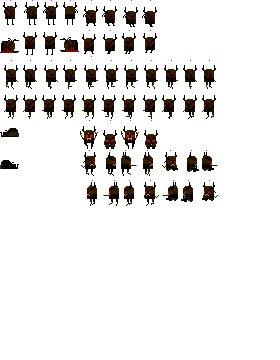
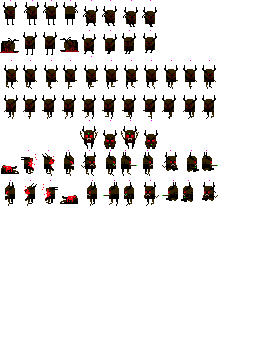
Added 'decapitated' state in case of actor gets damage more than 2x of his remaining health.

diff --git a/entity.py b/entity.py
@@ -38,6 +38,7 @@ class Entity(object):
         self.dead = False
         self.dying = False
         self.disappear_after_death = False
+        self.has_got_a_critical_hit = False
         self.is_destructible: bool = False
         self.current_weapon = dict()
         self.time_passed: int = 0
@@ -695,12 +696,12 @@ class Entity(object):
                         forces_balance = ((dem.parent_strength + dem.parent_weight) / dem.parent_penalty) / (self.strength + self.body_weight)
                         # forces_balance = ((dem.parent_strength / self.strength) + (dem.parent_weight / self.body_weight)) / dem.parent_penalty
                         self.speed = 5 + forces_balance
-                        print(f'{dem.total_damage_amount=} {forces_balance=} {dem.parent_penalty=}')
+                        print(f'[demolishers collision] {dem.total_damage_amount=} {forces_balance=} {dem.parent_penalty=}')
                     else:
                         self.movement_direction_inverter = -1 if dem.look != self.look else 1
                         forces_balance = 0.1
                         self.speed = 3
-                        print(f'{dem.total_damage_amount=} {forces_balance=} {dem.parent_penalty=}')
+                        print(f'[demolishers collision] {dem.total_damage_amount=} {forces_balance=} {dem.parent_penalty=}')
                     if 'smash' in dem.damage.keys():
                         self.speed *= 1.5
                     if self.stats['stamina'] > 0:
@@ -718,7 +719,10 @@ class Entity(object):
                     # If actor hit from behind, the damage increased by 50%:
                     total_damage_multiplier = 1.5 if dem.look == self.look and dem.snap_to_actor >= 0 else 1
                     self.get_damage(dem.damage, total_damage_multiplier)
-                    # self.invincibility_timer = 100 if self.id == 0 else 30
+                    # self.has_got_a_critical_hit = True
+                    # # if self.total_damage_has_got > self.stats['health'] * 2:
+                    # #     self.has_got_a_critical_hit = True
+
                     if self.get_state() in ('hanging on edge', 'has just grabbed edge', 'climb on', 'climb on rise'):
                         self.set_state('release edge')
                         self.state_machine()
@@ -771,7 +775,7 @@ class Entity(object):
                             #     self.set_state('hop forward')
                             # self.movement_direction_inverter = -1 if dem.look != self.look else 1
                         # if self.get_state() != 'lie dead':
-                        print(f'{self.hop_back_jump_height_modifier} {dem.damage["smash"]=}')
+                        print(f'[demolishers collision] {self.hop_back_jump_height_modifier} {dem.damage["smash"]=}')
                         # print(f'{self.hop_back_jump_height_modifier} {self.total_damage_has_got=}')
                         self.set_state('hopping prepare')
                         # self.set_state('hop back')
@@ -827,6 +831,9 @@ class Entity(object):
         if self.stats['health'] < 0:
             self.stats['health'] = 0
             self.stats['target health'] = 0
+            # # self.has_got_a_critical_hit = True
+            # if self.total_damage_has_got > self.stats['health'] * 2:
+            #     self.has_got_a_critical_hit = True
             self.set_state('dying')
             # print(f'[check condition] {self.name} (#{self.id}): change state to *DYING* | HP: {self.stats["health"]}')
             # self.dying = True
@@ -837,11 +844,17 @@ class Entity(object):
         #     return
         # print(f'[entity.get_damage] incoming damage dealt to {self.name} | {self.stats["health"]=}')
         self.total_damage_has_got = 0
+        remain_health = self.stats['health']
         for damage_type in damage:
             d = damage[damage_type] * self.resistances[damage_type] * damage_multiplier
             self.stats['health'] -= d
             # self.stats['health'] -= d
             self.total_damage_has_got += d
+
+        # self.has_got_a_critical_hit = True
+        if self.total_damage_has_got > remain_health * 2:
+        # if self.total_damage_has_got > self.stats['health'] * 2:
+            self.has_got_a_critical_hit = True
 
         # if self.stats['health'] <= 0:
         #     self.set_state('dying')

diff --git a/actor.py b/actor.py
@@ -27,6 +27,7 @@ class Actor(Entity):
         self.jump_height: int = 22
         self.max_jump_attempts = 2
 
+
         # self.rectangle.height = 149
         # self.rectangle.width = 49
         # self.target_height = self.rectangle.h
@@ -695,7 +696,10 @@ class Actor(Entity):
 
                 if self.dead:
                     # self.heading[0] = 0
-                    self.set_state('lie dead')
+                    if self.has_got_a_critical_hit:
+                        self.set_state('decapitated')
+                    else:
+                        self.set_state('lie dead')
                 else:
                     if self.get_state() == 'hanging on edge':
                         self.set_state('release edge')
@@ -725,7 +729,10 @@ class Actor(Entity):
                     if not self.dead:
                         self.set_state('stand still')
                     else:
-                        self.set_state('lie dead')
+                        if self.has_got_a_critical_hit:
+                            self.set_state('decapitated')
+                        else:
+                            self.set_state('lie dead')
         # elif self.get_state() == 'hop forward':                        # HOP BACK
         #     self.heading[0] = 0
         #     self.speed = 0
@@ -1066,8 +1073,23 @@ class Actor(Entity):
                 self.set_state('almost explode')
             else:
                 self.dying = True
-                self.set_state('lie dead')
+                if self.has_got_a_critical_hit:
+                    self.set_state('decapitated')
+                else:
+                    self.set_state('lie dead')
         elif self.get_state() == 'lie dead':                        #
+            ...
+            self.heading = [0, 0]
+            if self.idle_counter > 0:
+                self.idle_counter -= 1
+                # self.invincibility_timer -= 1
+            else:
+                if self.speed <= 0:
+                    self.ignore_user_input = False
+                    if self.just_got_jumped:
+                        self.just_got_jumped = False
+                    self.is_abort_jump = True
+        elif self.get_state() == 'decapitated':
             ...
             self.heading = [0, 0]
             if self.idle_counter > 0:

diff --git a/actors_description.py b/actors_description.py
@@ -686,6 +686,32 @@ demon_2 = {
             },
             'repeat from frame': 0
         },
+        'decapitated left': {
+            'repeat': True, 'interruptable': True,
+            'sequence': (84,85,86,87,),
+            'speed': 9,
+            'activity at frames': {
+                0: {
+                    'sound': True,
+                    'demolishers set number': 0,
+                    'demolisher': False
+                },
+            },
+            'repeat from frame': 3
+        },
+        'decapitated right': {
+            'repeat': True, 'interruptable': True,
+            'sequence': (73,72,71,70,),
+            'speed': 9,
+            'activity at frames': {
+                0: {
+                    'sound': True,
+                    'demolishers set number': 0,
+                    'demolisher': False
+                },
+            },
+            'repeat from frame': 3
+        },
     },
     # 'think type': '',
     'think type': 'chaser',

diff --git a/world.py b/world.py
@@ -1307,7 +1307,7 @@ class World(object):
             self.screen.blit(actor.current_sprite['sprite'], (x, y))
 
             # Misc info:
-            # self.screen.blit(fonts.all_fonts[10].render(actor.get_state() + ' dying: ' + str(actor.dying)+ ' dead: ' + str(actor.dead), True, WHITE, BLACK), (x, y))
+            self.screen.blit(fonts.all_fonts[10].render(actor.get_state() + ' dying: ' + str(actor.dying)+ ' dead: ' + str(actor.dead), True, WHITE, BLACK), (x, y))
 
             # # Weak spot
             # if actor.current_sprite['weak spot']:
